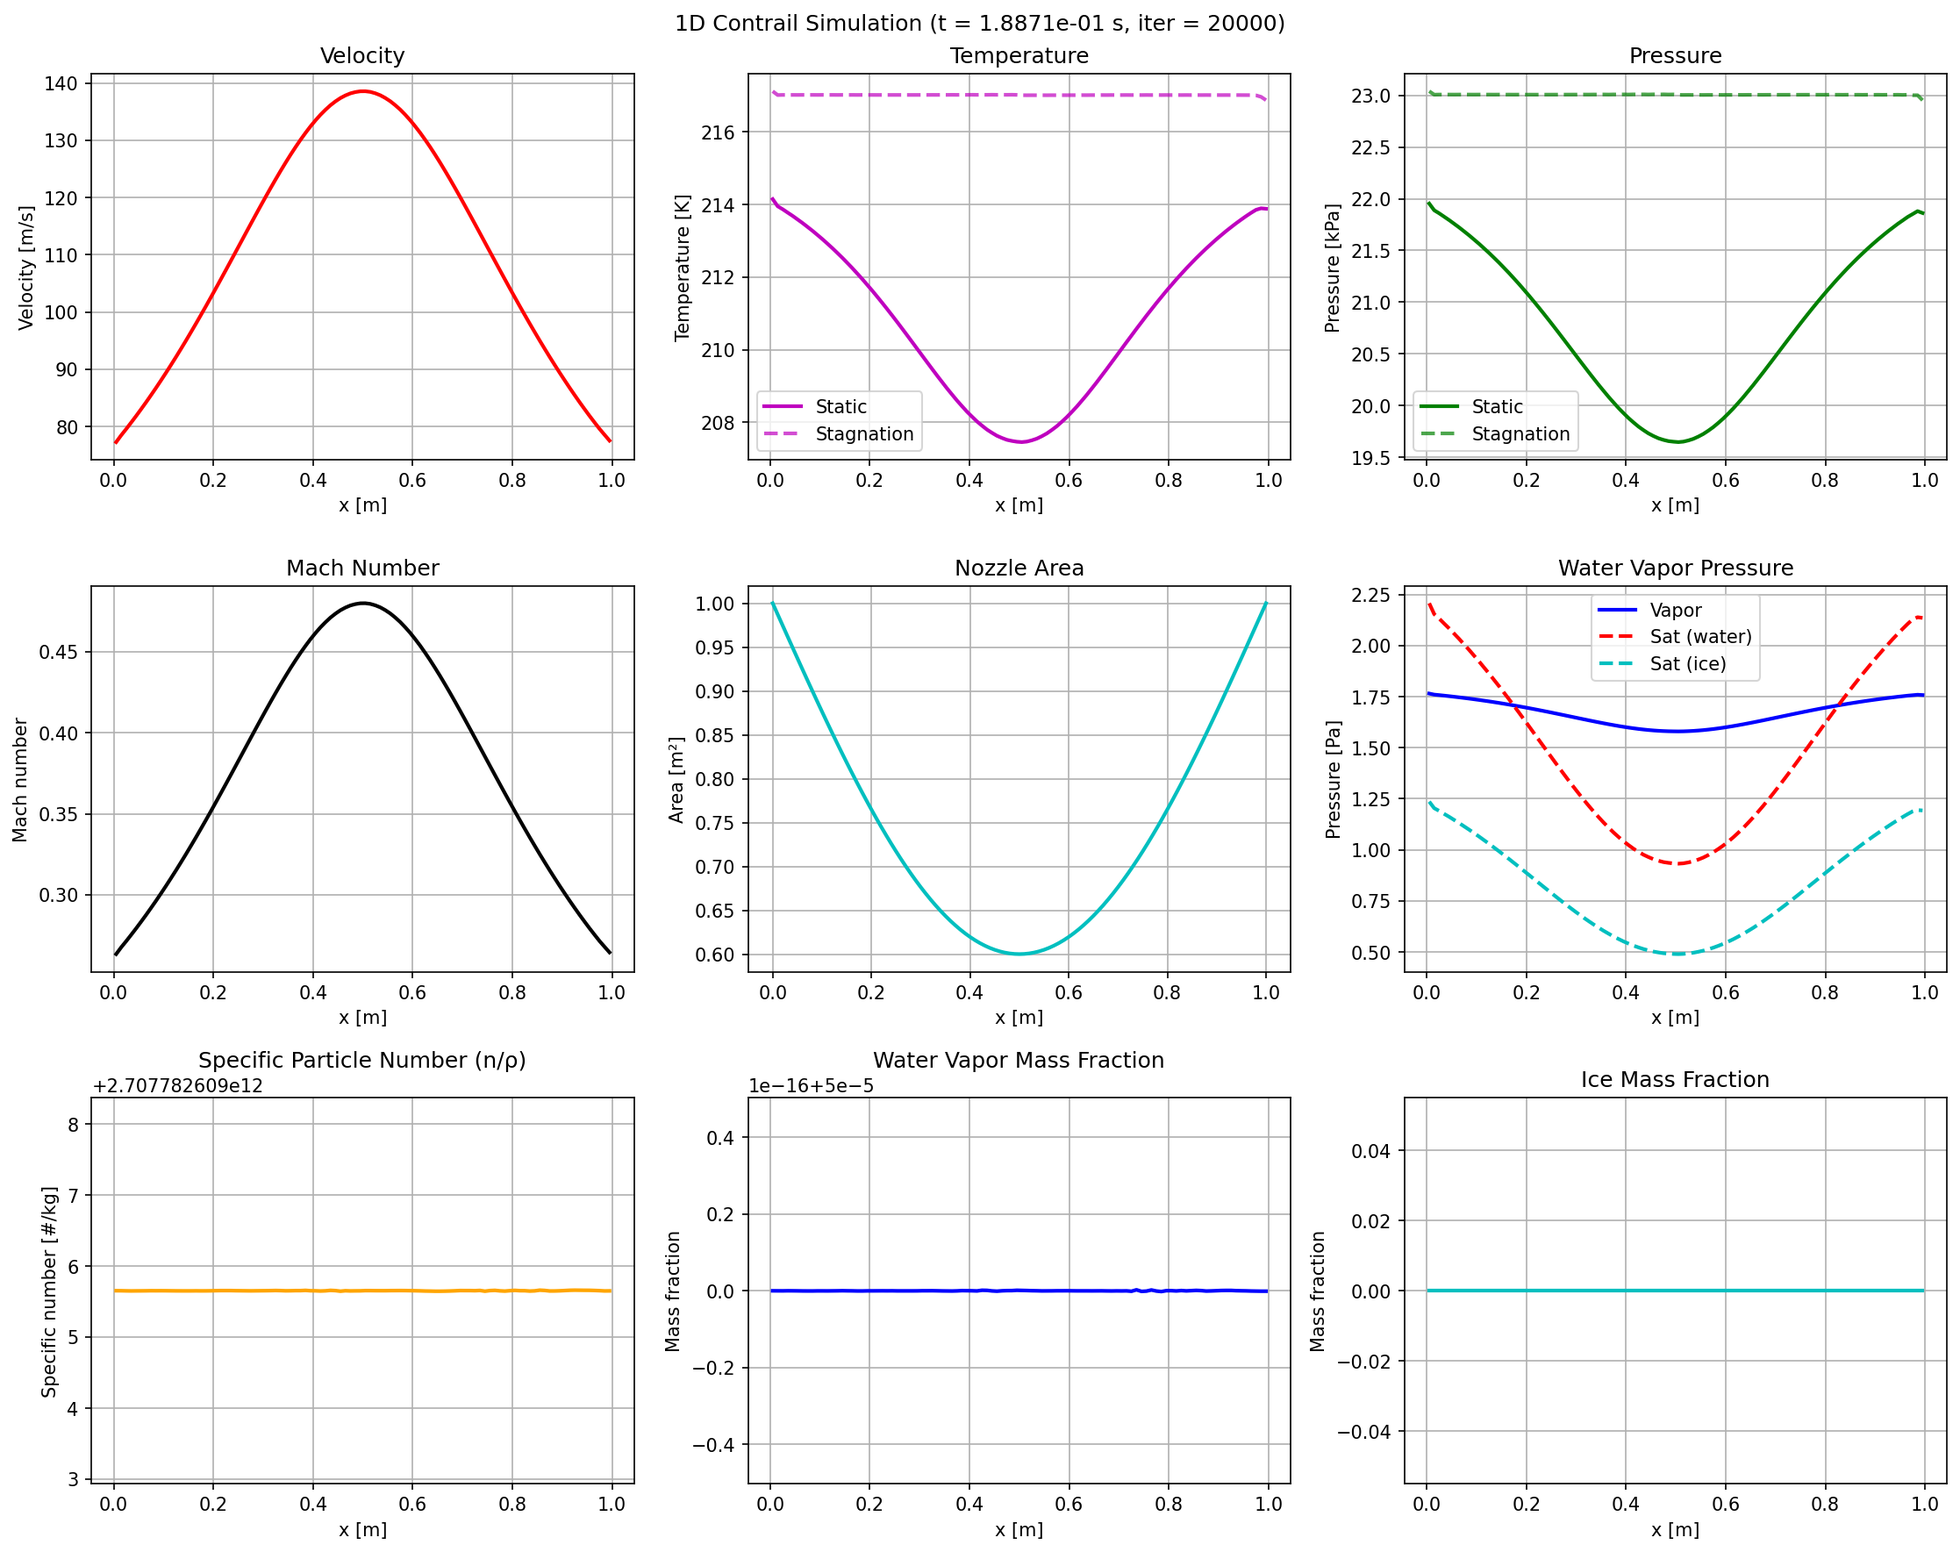
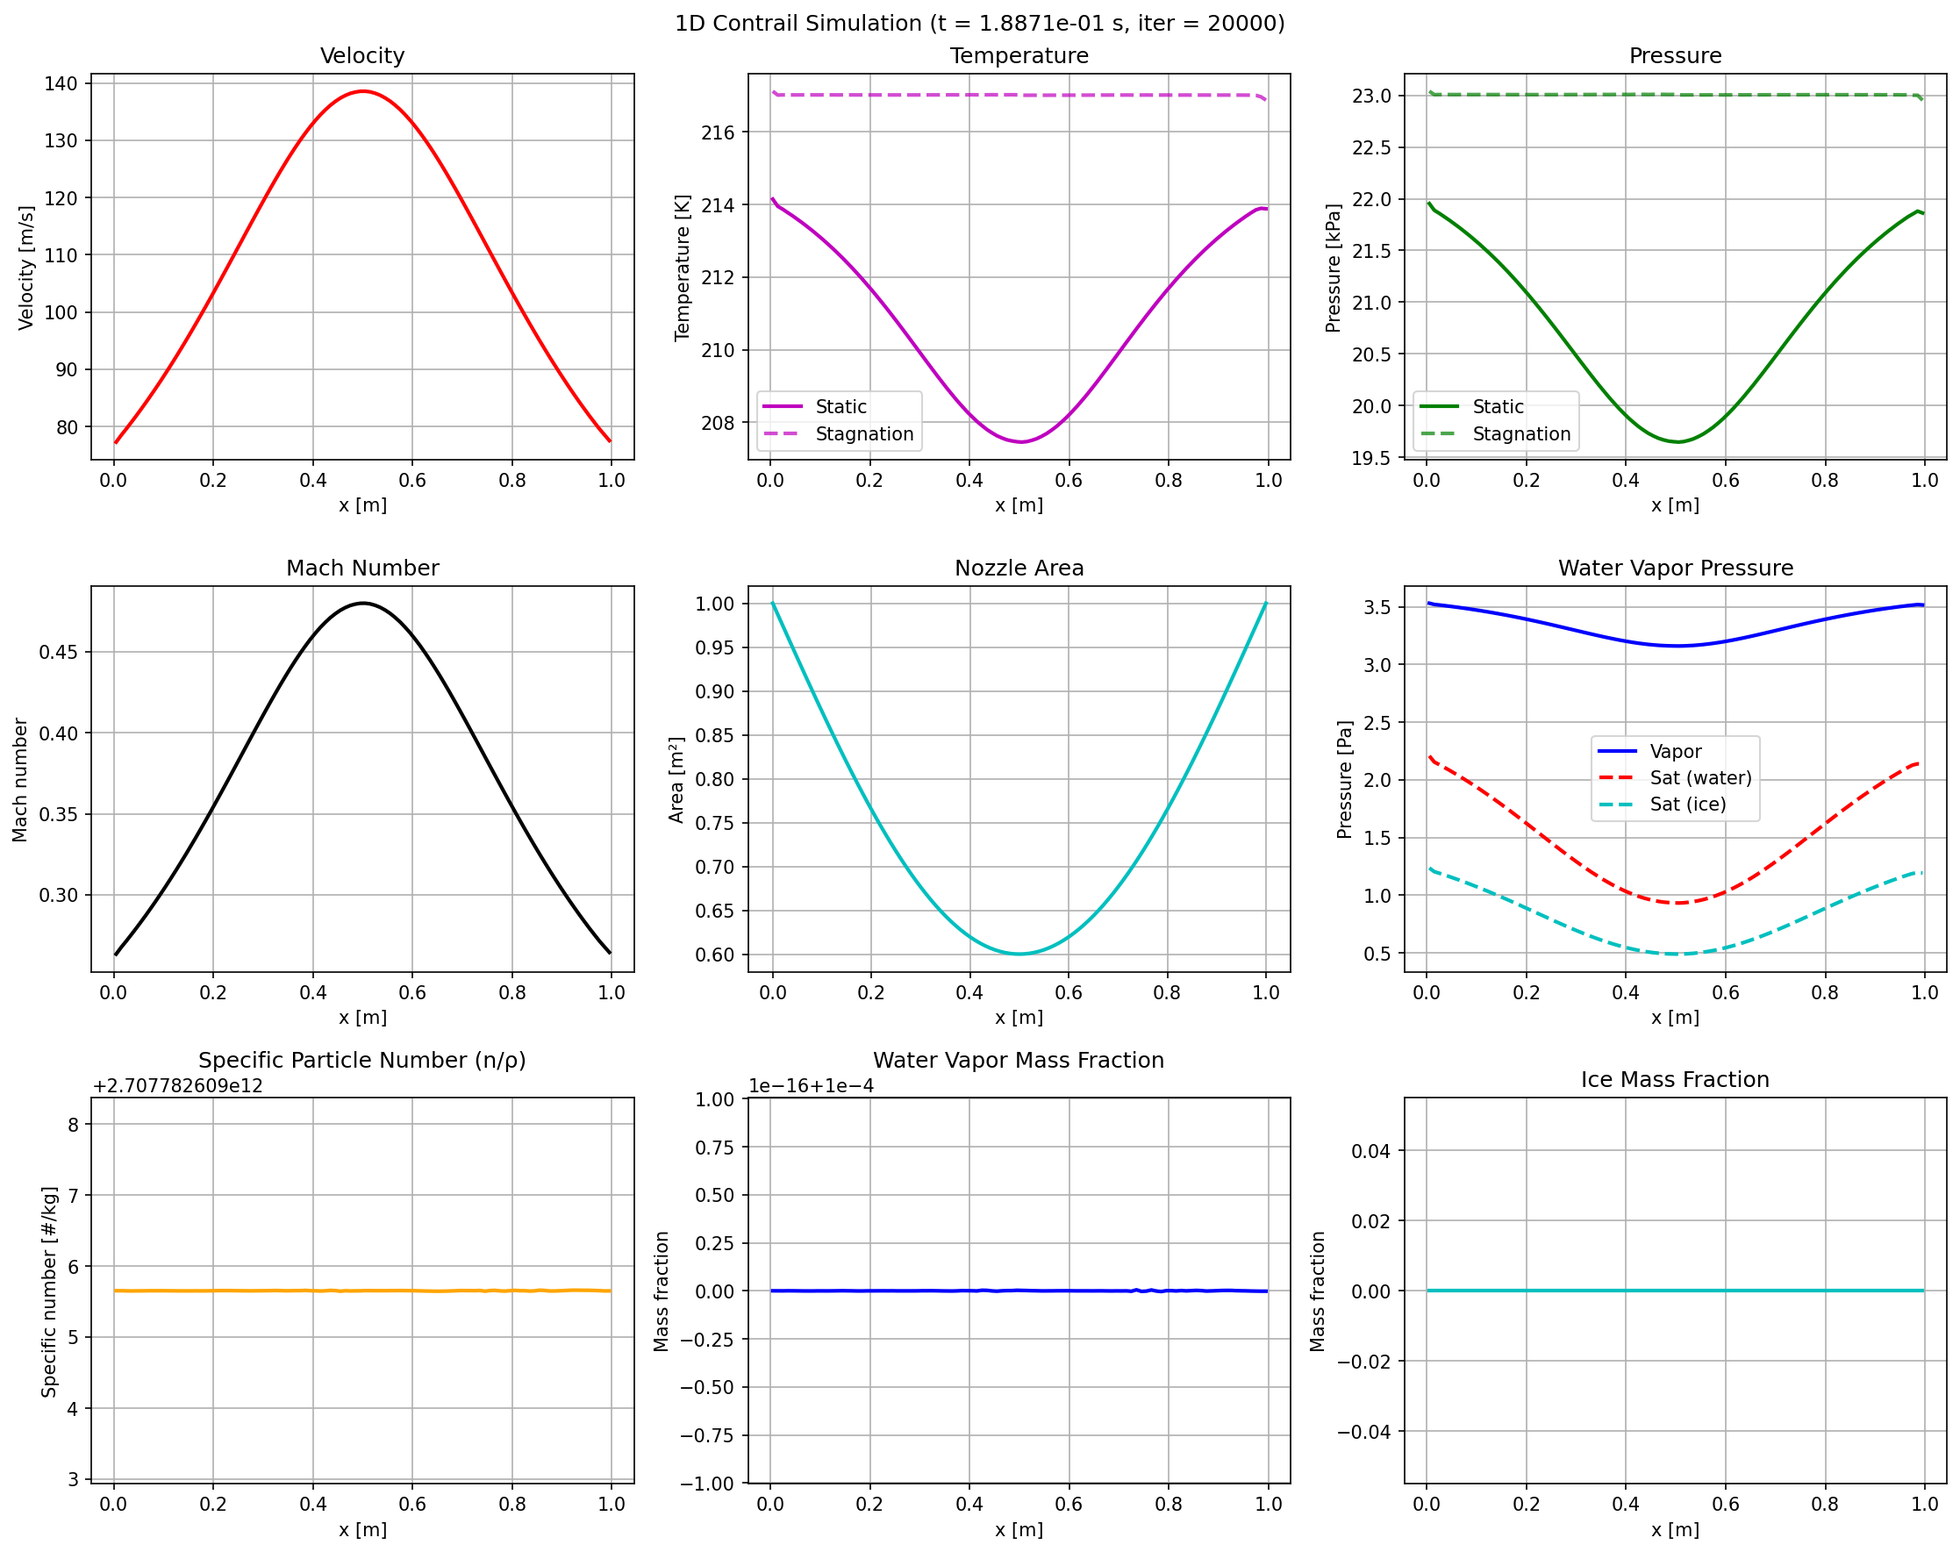
Implement ice nucleation with threshold-based activation

diff --git a/cfd/tests/test_ice_growth.py b/cfd/tests/test_ice_growth.py
@@ -134,35 +134,33 @@ class TestZeroIceGrowth:
         assert np.all(np.abs(sources[2]) < 1e-5), \
             f"Ice growth should be small for tiny ice mass with low supersaturation, got max {np.max(np.abs(sources[2]))}"
     
-    def test_zero_ice_with_particles_and_supersaturation_gives_no_growth(self, gas, simple_mesh, lookup_table):
-        """CRITICAL: Zero ice mass should give zero growth even with particles and supersaturation.
+    def test_zero_ice_with_particles_and_low_supersaturation_gives_no_growth(self, gas, simple_mesh, lookup_table):
+        """Zero ice mass with LOW supersaturation should give zero growth.
         
-        This is the key test that was missing! When ice_initial=0 but nucleation sites exist,
-        growth should NOT occur until nucleation creates ice mass. The diffusion growth equation
-        dm/dt = a * m^b * e_fac requires existing ice mass on particles (m > 0).
-        
-        Nucleation is a separate process (not yet implemented) that creates initial ice mass.
+        When ice_initial=0 but nucleation sites exist with LOW supersaturation
+        (below nucleation threshold), neither diffusion growth nor nucleation should occur.
+        The diffusion growth equation dm/dt = a * m^b * e_fac requires existing ice mass (m > 0),
+        and nucleation requires e_fac > e_fac_critical (default 0.6).
         """
         from cfd.scripts.ice_growth_source import ice_growth_source_term
 
-        # Create state with ZERO ice but particles exist and high supersaturation
+        # Create state with ZERO ice, particles exist, but LOW supersaturation
         state = create_test_state(
             gas, simple_mesh.n_cells,
             n_specific=1e15,  # Particles exist (potential nucleation sites)
-            Y_vapor=1e-3,     # High vapor -> supersaturated conditions
+            Y_vapor=1e-6,     # Low vapor -> below nucleation threshold
             Y_ice=0.0         # ZERO ice mass - no existing ice to grow
         )
 
         sources = ice_growth_source_term(state, simple_mesh, lookup_table)
 
-        # With zero ice mass, diffusion growth should be EXACTLY zero
-        # (Nucleation is a separate process, not yet implemented)
+        # With zero ice mass and low supersaturation, no growth or nucleation
         assert np.allclose(sources[2], 0.0), \
-            f"Ice growth MUST be zero when ice mass is zero (no ice mass on particles to grow), got {sources[2]}"
+            f"No growth or nucleation when ice=0 and low supersaturation, got {sources[2]}"
         
         # Verify no vapor consumption either
         assert np.allclose(sources[1], 0.0), \
-            f"Vapor consumption should be zero when no ice growth occurs, got {sources[1]}"
+            f"Vapor consumption should be zero when no growth/nucleation occurs, got {sources[1]}"
 
 
 class TestSubsaturatedConditions:
@@ -335,7 +333,7 @@ class TestNucleation:
         """Verify no nucleation at moderate supersaturation (below critical threshold).
         
         Even at moderate supersaturation (e_fac ~ 0.3-0.4), which is still below
-        the critical threshold for nucleation (~0.4-0.6), no ice formation should occur.
+        the critical threshold for nucleation (~0.6), no ice formation should occur.
         """
         from cfd.scripts.ice_growth_source import ice_growth_source_term, psat_ice, psat_water, R, M_w
         
@@ -362,20 +360,72 @@ class TestNucleation:
         
         sources = ice_growth_source_term(state, simple_mesh, lookup_table)
         
-        # Still below nucleation threshold
+        # Still below nucleation threshold - no nucleation should occur
         assert np.allclose(sources[2], 0.0), \
-            f"No nucleation at moderate supersaturation (e_fac ~ 0.35), got {sources[2]}"
+            f"No nucleation at moderate supersaturation (e_fac ~ 0.35 < 0.6), got {sources[2]}"
     
-    def test_high_supersaturation_without_nucleation_gives_zero_growth(self, gas, simple_mesh, lookup_table):
-        """Verify that even at HIGH supersaturation, zero ice gives zero growth.
+    def test_nucleation_threshold_behavior(self, gas, simple_mesh, lookup_table):
+        """Test nucleation occurs just above threshold but not just below.
         
-        At high supersaturation (e_fac > 0.6), nucleation WOULD occur in reality.
-        However, since nucleation is not yet implemented, we should still get zero growth
-        from zero ice mass. This test documents expected future behavior.
+        Verify that the nucleation threshold is sharp:
+        - e_fac = 0.55 (below threshold): no nucleation
+        - e_fac = 0.65 (above threshold): nucleation occurs
+        """
+        from cfd.scripts.ice_growth_source import ice_growth_source_term, psat_ice, psat_water, R, M_w
         
-        Once nucleation is implemented, this test should be updated to verify:
+        T = 220.0
+        p_total = 25000.0
+        rho = p_total / (gas.R * T)
+        
+        p_sat_ice_val = psat_ice(np.array([T]))[0]
+        p_sat_water_val = psat_water(np.array([T]))[0]
+        
+        # Test below threshold (e_fac = 0.55)
+        target_p_vapor_below = p_sat_ice_val + 0.55 * (p_sat_water_val - p_sat_ice_val)
+        rho_vapor_below = target_p_vapor_below * M_w / (R * T)
+        Y_vapor_below = rho_vapor_below / rho
+        
+        state_below = create_test_state(
+            gas, simple_mesh.n_cells,
+            rho=rho, T=T,
+            n_specific=1e15,
+            Y_vapor=Y_vapor_below,
+            Y_ice=0.0
+        )
+        
+        sources_below = ice_growth_source_term(state_below, simple_mesh, lookup_table)
+        
+        # Just below threshold: no nucleation
+        assert np.allclose(sources_below[2], 0.0), \
+            f"No nucleation below threshold (e_fac=0.55), got {sources_below[2]}"
+        
+        # Test above threshold (e_fac = 0.65)
+        target_p_vapor_above = p_sat_ice_val + 0.65 * (p_sat_water_val - p_sat_ice_val)
+        rho_vapor_above = target_p_vapor_above * M_w / (R * T)
+        Y_vapor_above = rho_vapor_above / rho
+        
+        state_above = create_test_state(
+            gas, simple_mesh.n_cells,
+            rho=rho, T=T,
+            n_specific=1e15,
+            Y_vapor=Y_vapor_above,
+            Y_ice=0.0
+        )
+        
+        sources_above = ice_growth_source_term(state_above, simple_mesh, lookup_table)
+        
+        # Just above threshold: nucleation occurs
+        assert np.all(sources_above[2] > 0), \
+            f"Nucleation should occur above threshold (e_fac=0.65), got {sources_above[2]}"
+    
+    def test_high_supersaturation_with_nucleation_creates_ice(self, gas, simple_mesh, lookup_table):
+        """Verify that nucleation occurs at HIGH supersaturation.
+        
+        At high supersaturation (e_fac > 0.6), nucleation SHOULD occur when ice mass is zero.
+        This test verifies:
         - Nucleation DOES occur when e_fac > critical threshold
         - Ice source becomes positive (new ice mass created)
+        - Vapor is consumed
         """
         from cfd.scripts.ice_growth_source import ice_growth_source_term, psat_ice, psat_water, R, M_w
         
@@ -402,14 +452,18 @@ class TestNucleation:
         
         sources = ice_growth_source_term(state, simple_mesh, lookup_table)
         
-        # Currently: no nucleation implemented → zero growth
-        # Future: nucleation should occur → positive ice source
-        assert np.allclose(sources[2], 0.0), \
-            f"Current implementation (no nucleation): should get zero growth, got {sources[2]}"
+        # With nucleation implemented: positive ice source
+        assert np.all(sources[2] > 0), \
+            f"Nucleation should occur at high supersaturation (e_fac ~ 0.8), got {sources[2]}"
         
-        # TODO: Once nucleation is implemented, update this test:
-        # assert sources[2] > 0, "Nucleation should occur at high supersaturation (e_fac ~ 0.8)"
-        # assert sources[1] < 0, "Vapor should be consumed by nucleation"
+        # Vapor should be consumed
+        assert np.all(sources[1] < 0), \
+            f"Vapor should be consumed by nucleation, got {sources[1]}"
+        
+        # Verify mass conservation
+        total_source = sources[1] + sources[2]
+        assert np.allclose(total_source, 0.0), \
+            f"Mass should be conserved during nucleation, got total {total_source}"
     
     def test_supersaturation_threshold_documentation(self, gas, simple_mesh, lookup_table):
         """Document the expected supersaturation threshold for nucleation.

diff --git a/cfd/scripts/ice_growth_source.py b/cfd/scripts/ice_growth_source.py
@@ -198,9 +198,11 @@ def psat_water(T: np.ndarray, p: np.ndarray = None) -> np.ndarray:
 
 
 def ice_growth_source_term(state: FlowState, mesh: Mesh1D,
-                           lookup_table: IceGrowthLookupTable) -> np.ndarray:
+                           lookup_table: IceGrowthLookupTable,
+                           e_fac_critical: float = 0.6,
+                           m_initial: float = 1e-18) -> np.ndarray:
     """
-    Compute ice growth source terms using Koenig approximation.
+    Compute ice growth source terms using Koenig approximation with nucleation.
 
     Scalars:
         Y[0] = n/ρ: Specific particle number density [#/kg]
@@ -210,14 +212,18 @@ def ice_growth_source_term(state: FlowState, mesh: Mesh1D,
     Physics:
         - Particle number is conserved (no source)
         - Ice particles grow/evaporate: dm/dt = a * m^b * e_fac
+        - Nucleation: creates initial ice mass when e_fac > e_fac_critical
         - e_fac > 0: ice grows (vapor → ice), e_fac < 0: ice evaporates (ice → vapor)
-        - Ice mass changes: source = n * dm/dt
+        - Ice mass changes: source = n * dm/dt + nucleation
         - e_fac accounts for actual supersaturation vs. table values (at saturation)
 
     Args:
         state: Current flow state
         mesh: Computational mesh
         lookup_table: Pre-loaded ice growth lookup table
+        e_fac_critical: Critical supersaturation factor for nucleation (default: 0.6)
+                        Corresponds to S_ice ~ 1.4 for heterogeneous nucleation
+        m_initial: Initial ice mass per nucleated particle [kg] (default: 1e-18)
 
     Returns:
         sources: Source terms [kg/(m³·s)] for each scalar
@@ -304,45 +310,75 @@ def ice_growth_source_term(state: FlowState, mesh: Mesh1D,
         0.0
     )
 
-    # Total ice mass growth/evaporation rate per unit volume
+    # Total ice mass growth/evaporation rate per unit volume from diffusion
     ice_growth_rate = n * dm_dt
+
+    # =========================================================================
+    # NUCLEATION: Create initial ice mass when supersaturation exceeds threshold
+    # =========================================================================
+    # Heterogeneous nucleation occurs when:
+    # 1. Supersaturation exceeds critical threshold (e_fac > e_fac_critical)
+    # 2. Ice mass is (nearly) zero (m_particle < 1e-20 kg)
+    # 3. Particles exist as nucleation sites (n > 1e-10 #/m³)
+    #
+    # Model: Instantaneous nucleation creates small ice mass on all particles
+    # Time scale for nucleation: assume rapid (dt_nucleation ~ 0.01 s)
+    # This is a simplified model; more sophisticated approaches could include:
+    # - Gradual nucleation over time
+    # - Fraction of particles that nucleate
+    # - Aerosol size distribution effects
+    
+    dt_nucleation = 0.01  # seconds - characteristic time for nucleation
+    
+    nucleation_rate = np.where(
+        (e_fac > e_fac_critical) & (m_particle < 1e-20) & (n > 1e-10),
+        n * m_initial / dt_nucleation,  # [kg/(m³·s)]
+        0.0
+    )
+    
+    # Total ice source: diffusion growth + nucleation
+    ice_total_rate = ice_growth_rate + nucleation_rate
 
     # Limit growth by available vapor (when growing)
     dt_typical = 1e-3  # seconds
     max_vapor_consumption = rho_vapor / dt_typical
-    ice_growth_rate = np.where(
-        ice_growth_rate > 0,
-        np.minimum(ice_growth_rate, max_vapor_consumption),
-        ice_growth_rate
+    ice_total_rate = np.where(
+        ice_total_rate > 0,
+        np.minimum(ice_total_rate, max_vapor_consumption),
+        ice_total_rate
     )
 
     # Limit evaporation by available ice (when evaporating)
     max_ice_evaporation = rho_ice / dt_typical
-    ice_growth_rate = np.where(
-        ice_growth_rate < 0,
-        np.maximum(ice_growth_rate, -max_ice_evaporation),
-        ice_growth_rate
+    ice_total_rate = np.where(
+        ice_total_rate < 0,
+        np.maximum(ice_total_rate, -max_ice_evaporation),
+        ice_total_rate
     )
 
     # Apply sources
     # Scalar 0: Particle number (conserved)
     sources[0] = 0.0
 
-    # Scalar 1: Water vapor (consumed by ice growth)
-    sources[1] = -ice_growth_rate
+    # Scalar 1: Water vapor (consumed by ice growth and nucleation)
+    sources[1] = -ice_total_rate
 
-    # Scalar 2: Ice mass (grows from vapor)
-    sources[2] = ice_growth_rate
+    # Scalar 2: Ice mass (grows from vapor via diffusion and nucleation)
+    sources[2] = ice_total_rate
 
     return sources
 
 
-def create_ice_growth_source(hdf5_path: str = None) -> ScalarSourceTerm:
+def create_ice_growth_source(hdf5_path: str = None, 
+                             e_fac_critical: float = 0.6,
+                             m_initial: float = 1e-18) -> ScalarSourceTerm:
     """
-    Factory function to create ice growth source term with lookup table.
+    Factory function to create ice growth source term with lookup table and nucleation.
 
     Args:
         hdf5_path: Path to ice growth coefficient HDF5 file
+        e_fac_critical: Critical supersaturation factor for nucleation (default: 0.6)
+        m_initial: Initial ice mass per nucleated particle [kg] (default: 1e-18)
 
     Returns:
         ScalarSourceTerm object ready to add to solver
@@ -350,13 +386,17 @@ def create_ice_growth_source(hdf5_path: str = None) -> ScalarSourceTerm:
     Example:
         >>> ice_source = create_ice_growth_source()
         >>> solver.add_source_term(ice_source)
+        
+        >>> # Custom nucleation threshold
+        >>> ice_source = create_ice_growth_source(e_fac_critical=0.5, m_initial=1e-17)
+        >>> solver.add_source_term(ice_source)
     """
     # Load lookup table once
     lookup_table = IceGrowthLookupTable(hdf5_path)
 
-    # Create closure that captures the lookup table
+    # Create closure that captures the lookup table and nucleation parameters
     def source_function(state: FlowState, mesh: Mesh1D) -> np.ndarray:
-        return ice_growth_source_term(state, mesh, lookup_table)
+        return ice_growth_source_term(state, mesh, lookup_table, e_fac_critical, m_initial)
 
     return ScalarSourceTerm(source_function)
 
@@ -417,10 +457,17 @@ def example_contrail_simulation():
     p_exit = 22000.0  # Exit pressure only slightly lower (smaller pressure drop)
 
     # Initial conditions for scalars
-    # Testing the bug fix: ice_initial=0 should give NO growth until nucleation
+    # Use moderate vapor to demonstrate nucleation
+    # At T~217K, p_sat_ice ~ 2.5 Pa, p_sat_water ~ 4.3 Pa
+    # For nucleation to occur, we need e_fac > 0.6
+    # This requires p_vapor > p_sat_ice + 0.6*(p_sat_water - p_sat_ice)
+    # p_vapor > 2.5 + 0.6*(4.3-2.5) = 2.5 + 1.08 = 3.58 Pa
+    # At rho ~ 0.37 kg/m³, T ~ 217K: Y_vapor = p_vapor * M_w / (R * T * rho)
+    # Y_vapor = 3.58 * 0.018 / (8.314 * 217) * rho / rho ≈ 3.6e-5
+    # Use slightly higher to ensure nucleation: Y_vapor ~ 1e-4
     n_initial = 1e12           # Particle number density [#/m³]
-    vapor_initial = 5e-5       # Initial vapor mass fraction (low - below nucleation)
-    ice_initial = 0.0          # Initial ice mass fraction (ZERO - no existing ice)
+    vapor_initial = 1e-4       # Initial vapor mass fraction (moderate - above nucleation threshold)
+    ice_initial = 0.0          # Initial ice mass fraction (ZERO - will nucleate)
 
     # Convert to specific quantities (per unit total mass)
     # Use correct density for cruise altitude
